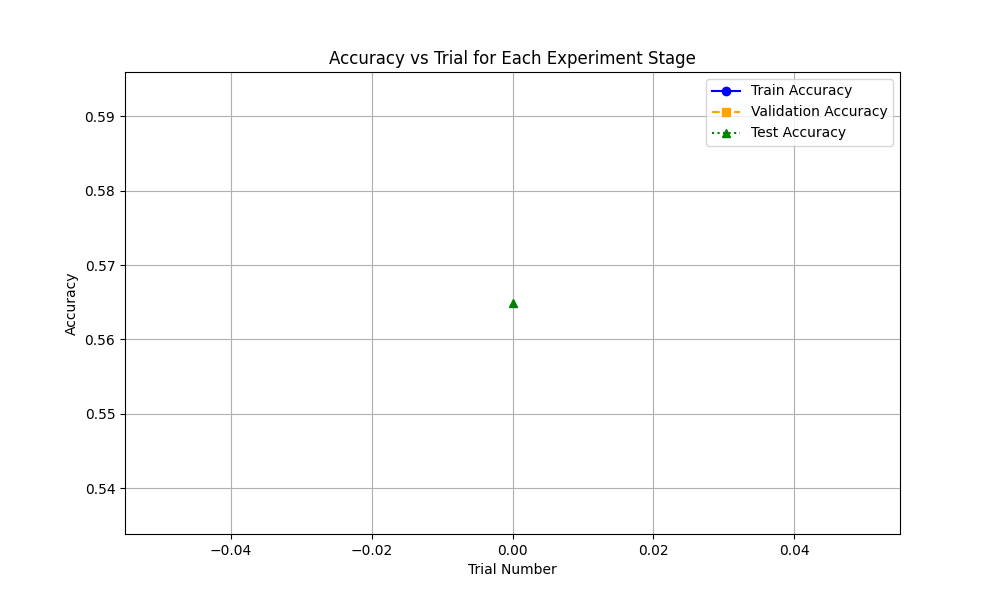
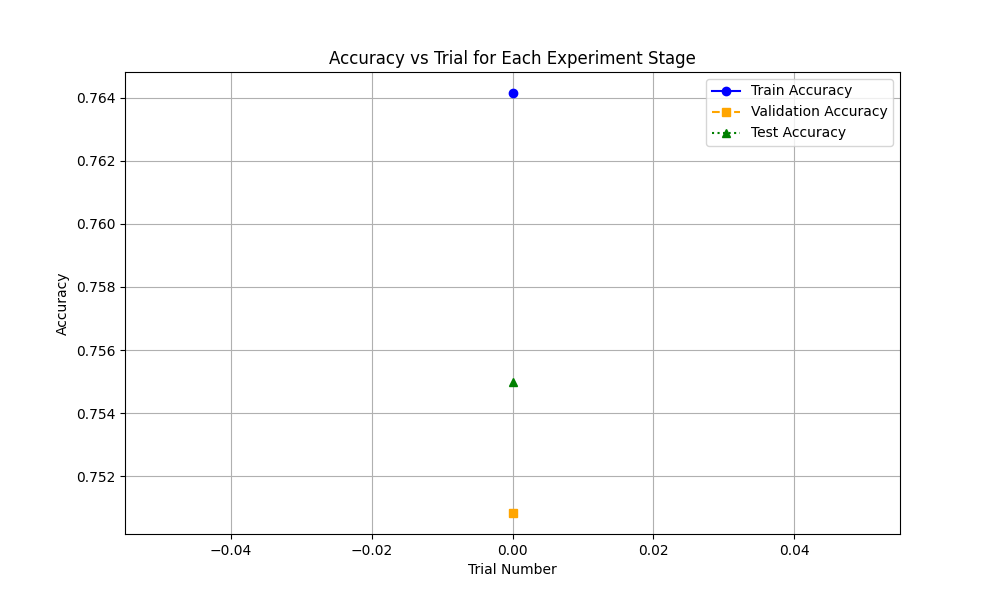
adjusted cude dependencies, grid search

diff --git a/spiking_arch/smnist_fp.py b/spiking_arch/smnist_fp.py
@@ -74,7 +74,7 @@ parser.add_argument("--sron", action="store_true")
 parser.add_argument("--liquidron", action="store_true")
 
 parser.add_argument("--inp_scaling", type=float, default=1.0, help="ESN input scaling")
-parser.add_argument("--rho", type=float, default=9, help="ESN spectral radius")
+parser.add_argument("--rho", type=float, default=0.99, help="ESN spectral radius")
 parser.add_argument("--leaky", type=float, default=1.0, help="ESN spectral radius")
 parser.add_argument("--use_test", action="store_true")
 parser.add_argument(
@@ -132,7 +132,7 @@ def test(data_loader, classifier, scaler):
         else:
             activations.append(output)
         ys.append(labels)
-    activations = torch.cat(activations, dim=0).numpy()
+    activations = torch.cat(activations, dim=0).cpu().detach().numpy() # activations = torch.cat(activations, dim=0).numpy()
     activations = scaler.transform(activations)
     ys = torch.cat(ys, dim=0).numpy()
     return classifier.score(activations, ys)
@@ -258,6 +258,9 @@ for i in range(args.trials):
         args.dataroot, args.batch, args.batch
     )
     
+    #adjust to have the training set as train + valid
+    train_loader = torch.cat(train_loader, valid_loader)
+    
     activations, ys = [], []
     for images, labels in tqdm(train_loader):
         images = images.to(device)
@@ -266,18 +269,27 @@ for i in range(args.trials):
         if args.liquidron:
             output, u, spk = model(images)
             activations.append(output)
-            # print(output)
         else:
             output, velocity, u, spk = model(images)
             activations.append(output[-1])
             
+            
     if not args.liquidron:# is None:
-        output=torch.from_numpy(np.array(output, dtype=np.float32))
-        u=torch.from_numpy(np.array(u, dtype=np.float32))   
-        spk=torch.from_numpy(np.array(spk, dtype=np.float32)) 
-        velocity=torch.from_numpy(np.array(velocity, dtype=np.float32))  
-        plot_dynamics(output, velocity, u, spk, images, args.resultroot)
-    activations = torch.cat(activations, dim=0).numpy()
+        # If 'device' is your GPU 
+        output = torch.cat(output, dim=0).cpu().detach().numpy()
+        u = torch.cat(u, dim=0).cpu().detach().numpy()
+        spk = torch.cat(spk, dim=0).cpu().detach().numpy()
+        velocity = torch.cat(velocity, dim=0).cpu().detach().numpy()
+
+    #     # u = torch.from_numpy(u.cpu().numpy()).to(device)  
+    #     # spk = torch.from_numpy(spk.cpu().numpy()).to(device)   
+    #     # velocity = torch.from_numpy(velocity.cpu().numpy()).to(device)  
+    #     # output=torch.from_numpy(np.array(output, dtype=np.float32))
+    #     # u=torch.from_numpy(np.array(u, dtype=np.float32))   
+    #     # spk=torch.from_numpy(np.array(spk, dtype=np.float32)) 
+    #     # velocity=torch.from_numpy(np.array(velocity, dtype=np.float32))  
+    #     plot_dynamics(output, velocity, u, spk, images, args.resultroot)
+    activations = torch.cat(activations, dim=0).cpu().detach().numpy() # activations = torch.cat(activations, dim=0).numpy()
     print('activations:', activations.shape)
     ys = torch.cat(ys, dim=0).squeeze().numpy()
     # print('NaN in activations', np.isnan(activations).sum())  # Count NaNs
@@ -287,10 +299,10 @@ for i in range(args.trials):
     activations = scaler.fit_transform(activations) #scaler.transform(activations) 
     classifier = LogisticRegression(max_iter=5000).fit(activations, ys)
     train_acc = test(train_loader, classifier, scaler)
-    # valid_acc = test(valid_loader, classifier, scaler) #if not args.use_test else 0.0
+    valid_acc = test(valid_loader, classifier, scaler) #if not args.use_test else 0.0
     test_acc = test(test_loader, classifier, scaler) #if args.use_test else 0.0
-    # train_accs.append(train_acc)
-    # valid_accs.append(valid_acc)
+    train_accs.append(train_acc)
+    valid_accs.append(valid_acc)
     test_accs.append(test_acc)
 simple_plot(train_accs, valid_accs, test_accs, args.resultroot)
 

diff --git a/spiking_arch/fine_tuning_smnist.py b/spiking_arch/fine_tuning_smnist.py
@@ -104,12 +104,12 @@ param_grid = {
     # "epsilon": [4.5, 4.9],  # Range of epsilon values
     # "rho": [0.9, 0.99],  # Spectral radius
     # "inp_scaling": [0.5, 0.8, 1.2],  # Input scaling
-    'rc':[0.005, 0.05, 0.5, 2, 3.5, 5, 7.5], #
-    "threshold": [0.008, 0.01],
+    'rc':[0.005, 0.05, 0.5, 2, 3.5, 5, 7], # resistance x capacitance
+    # "threshold": [0.008, 0.01],
     # "resistance": [3.0, 5.0, 7.0],
     # "capacitance": [3e-3, 5e-3, 7e-3],
-    "reset": [0.001, 0.002, 0.004], # initial membrane potential 
-    "bias": [0.01, 0.1]
+    # "reset": [0.001, 0.002, 0.004], # initial membrane potential 
+    "bias": [0.01, 0.05, 0.1, 0.5]
     }
 
 # Convert grid to list of combinations
@@ -148,7 +148,8 @@ def test(data_loader, classifier, scaler):
         output = model(images)[0][-1]
         activations.append(output)
         ys.append(labels)
-    activations = torch.cat(activations, dim=0).numpy()
+    # activations = torch.cat(activations, dim=0).numpy()
+    activations = torch.cat(activations, dim=0).cpu().detach().numpy() 
     activations = scaler.transform(activations)
     ys = torch.cat(ys, dim=0).numpy()
     return classifier.score(activations, ys)
@@ -172,14 +173,15 @@ for param_set in tqdm(param_combinations, desc="Grid Search"):
         ##do not 
         args.rho,
         args.inp_scaling,
-        params["threshold"],
-        # args.threshold,
+        # params["threshold"],
+        args.threshold,
         # params["resistance"],
         # params["capacitance"], 
         # args.resistance,
         # args.capacitance, 
         params['rc'],       
-        params["reset"], #args.reset, 
+        # params["reset"], 
+        args.reset, 
         params['bias'],
         topology=args.topology,
         sparsity=args.sparsity,
@@ -199,7 +201,8 @@ for param_set in tqdm(param_combinations, desc="Grid Search"):
         ys.append(labels)
 
     # activations = [torch.tensor(a) if not isinstance(a, torch.Tensor) else a for a in activations]
-    activations = torch.cat(activations, dim=0).numpy()
+    # activations = torch.cat(activations, dim=0).numpy()
+    activations = torch.cat(activations, dim=0).cpu().detach().numpy() 
     scaler = preprocessing.StandardScaler().fit(activations)
     activations = scaler.transform(activations)
     ys = torch.cat(ys, dim=0).numpy()

diff --git a/spiking_arch/snn_utils.py b/spiking_arch/snn_utils.py
@@ -56,12 +56,12 @@ def plot_dynamics(
     print('Plotting dynamics of hidden state, derivative, membrane potential, and spikes.')
 
     # Ensure the input tensors are in numpy format
-    activations = activations.detach().cpu().numpy() if isinstance(activations, torch.Tensor) else activations
-    velocity = velocity.detach().cpu().numpy() if isinstance(velocity, torch.Tensor) else velocity
-    membrane_potential = membrane_potential.detach().cpu().numpy() if isinstance(membrane_potential, torch.Tensor) else membrane_potential
-    spikes = spikes.detach().cpu().numpy() if isinstance(spikes, torch.Tensor) else spikes
-    # print('activations: ', activations.size(), ' velocity: ', velocity.size(), ' u: ', membrane_potential.size(), ' spikes: ', spikes.size())
-    # Get the time steps (assuming they are aligned with the tensor shapes)
+    # activations = activations.detach().cpu().numpy() if isinstance(activations, torch.Tensor) else activations
+    # velocity = velocity.detach().cpu().numpy() if isinstance(velocity, torch.Tensor) else velocity
+    # membrane_potential = membrane_potential.detach().cpu().numpy() if isinstance(membrane_potential, torch.Tensor) else membrane_potential
+    # spikes = spikes.detach().cpu().numpy() if isinstance(spikes, torch.Tensor) else spikes
+    # # print('activations: ', activations.size(), ' velocity: ', velocity.size(), ' u: ', membrane_potential.size(), ' spikes: ', spikes.size())
+    # # Get the time steps (assuming they are aligned with the tensor shapes)
     time_steps = np.arange(len(activations))#.shape[1])  # Number of time steps (length of time axis)
     print('Time steps shape: ', time_steps.shape)
 
